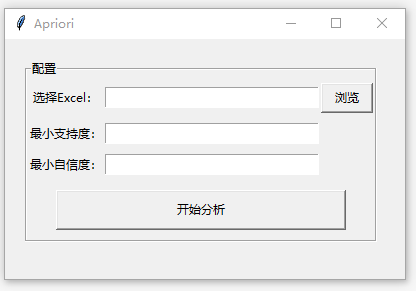
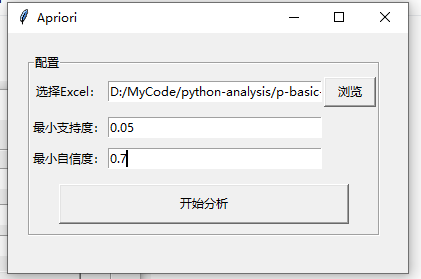
提交md说明

Changed region(s): [[0.0625, 0.2007, 0.9062, 0.8602], [0.0, 0.0, 1.0, 1.0], [0.4062, 0.6882, 0.5625, 0.7455]]

diff --git a/p-basic-examples/Apriori/README.md b/p-basic-examples/Apriori/README.md
@@ -1,4 +1,12 @@
 # python常用分析
 ## python-关联分析-Apriori
-### Apriori原理
+### 1、Apriori原理
+![](https://github.com//songsunny00/python-analysis/blob/master/p-basic-examples/Apriori/IMG/RULE.jpg?raw=true)  
+### 2、GUI界面
 ![](https://github.com//songsunny00/python-analysis/blob/master/p-basic-examples/Apriori/IMG/GUI.png?raw=true)  
+### 3、代码结构
+![](https://github.com//songsunny00/python-analysis/blob/master/p-basic-examples/Apriori/IMG/CODE.png?raw=true)  
+### 4、输出EXCEL
+#### 输入最小支持度0.05，最小自信度0.7得到的结果，可以尝试不同输入值看看
+![](https://github.com//songsunny00/python-analysis/blob/master/p-basic-examples/Apriori/IMG/RESULT.png?raw=true)  
+
